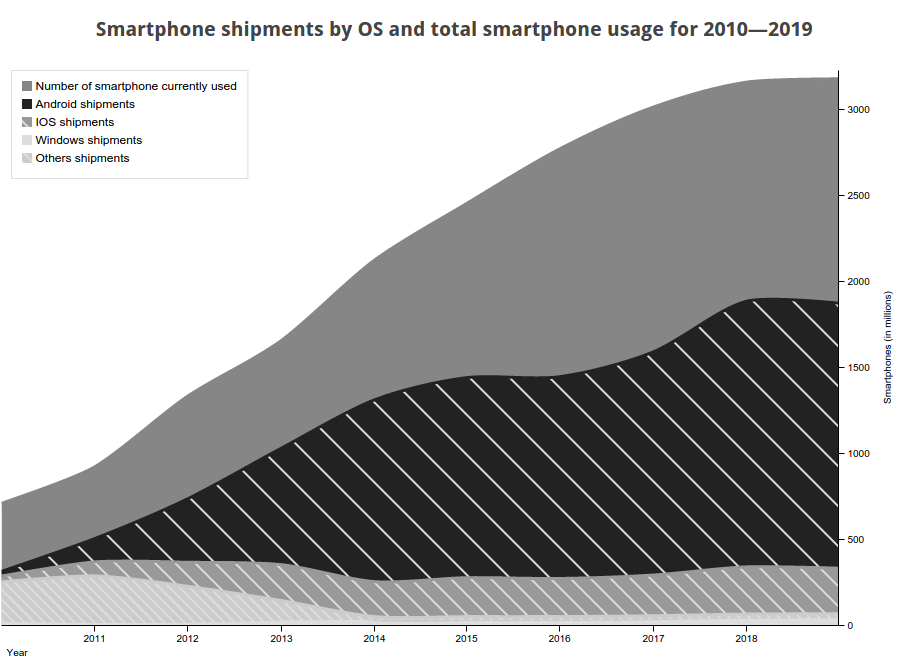
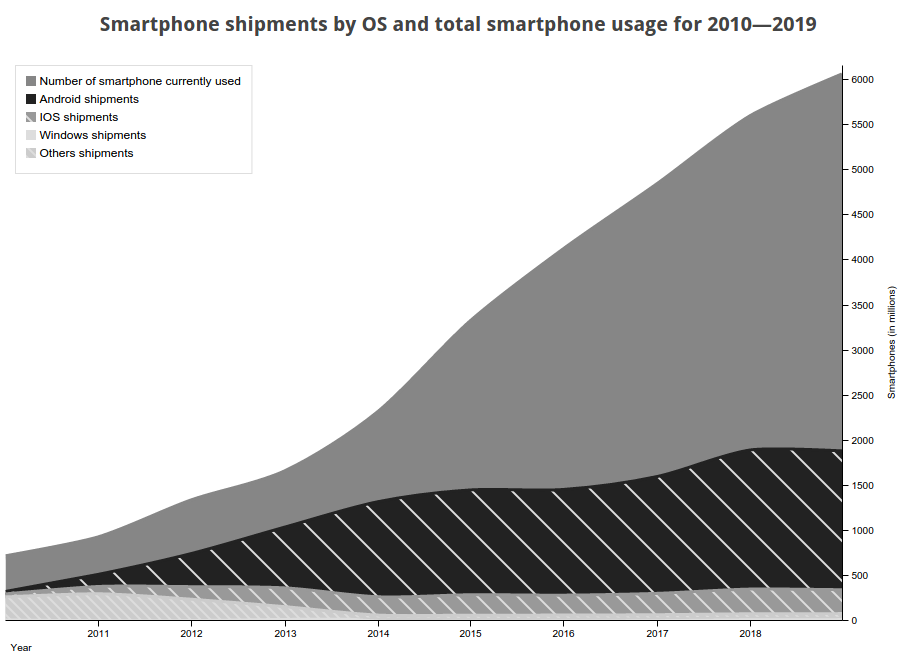
Update: new data

diff --git a/assets/2015-12/smartphones.js b/assets/2015-12/smartphones.js
@@ -22,8 +22,8 @@
       x: 'Year',
       xFormat: '%Y',
       columns: [
-        ['Year', '2010','2011','2012','2013','2014','2015','2016','2017','2018','2019'],
-        ['Usage', 700,910,1320,1644,2110,2438.7,2756.0,3000.1,3145.0,3240],
+        ['Year', '2010','2011','2012','2013','2014','2015','2016','2017','2018','2019', '2020'],
+        ['Usage', 700,910,1320,1644,2300,3301.2,4100.0,4823.6,5576.6,6040.6],
         ['Android', 26.6,134.2,367,675.5,1054.6,1161,1171,1294.8,1541.5,1538.3],
         ['IOS', 33.5,81,139.6,208.4,202.9,225.9,221,236.5,273.5,264.4],
         ['Windows', 21.8,14.7,15.9,28.5,32.5,31.5,31.6,34.7,42.1,42.8],
